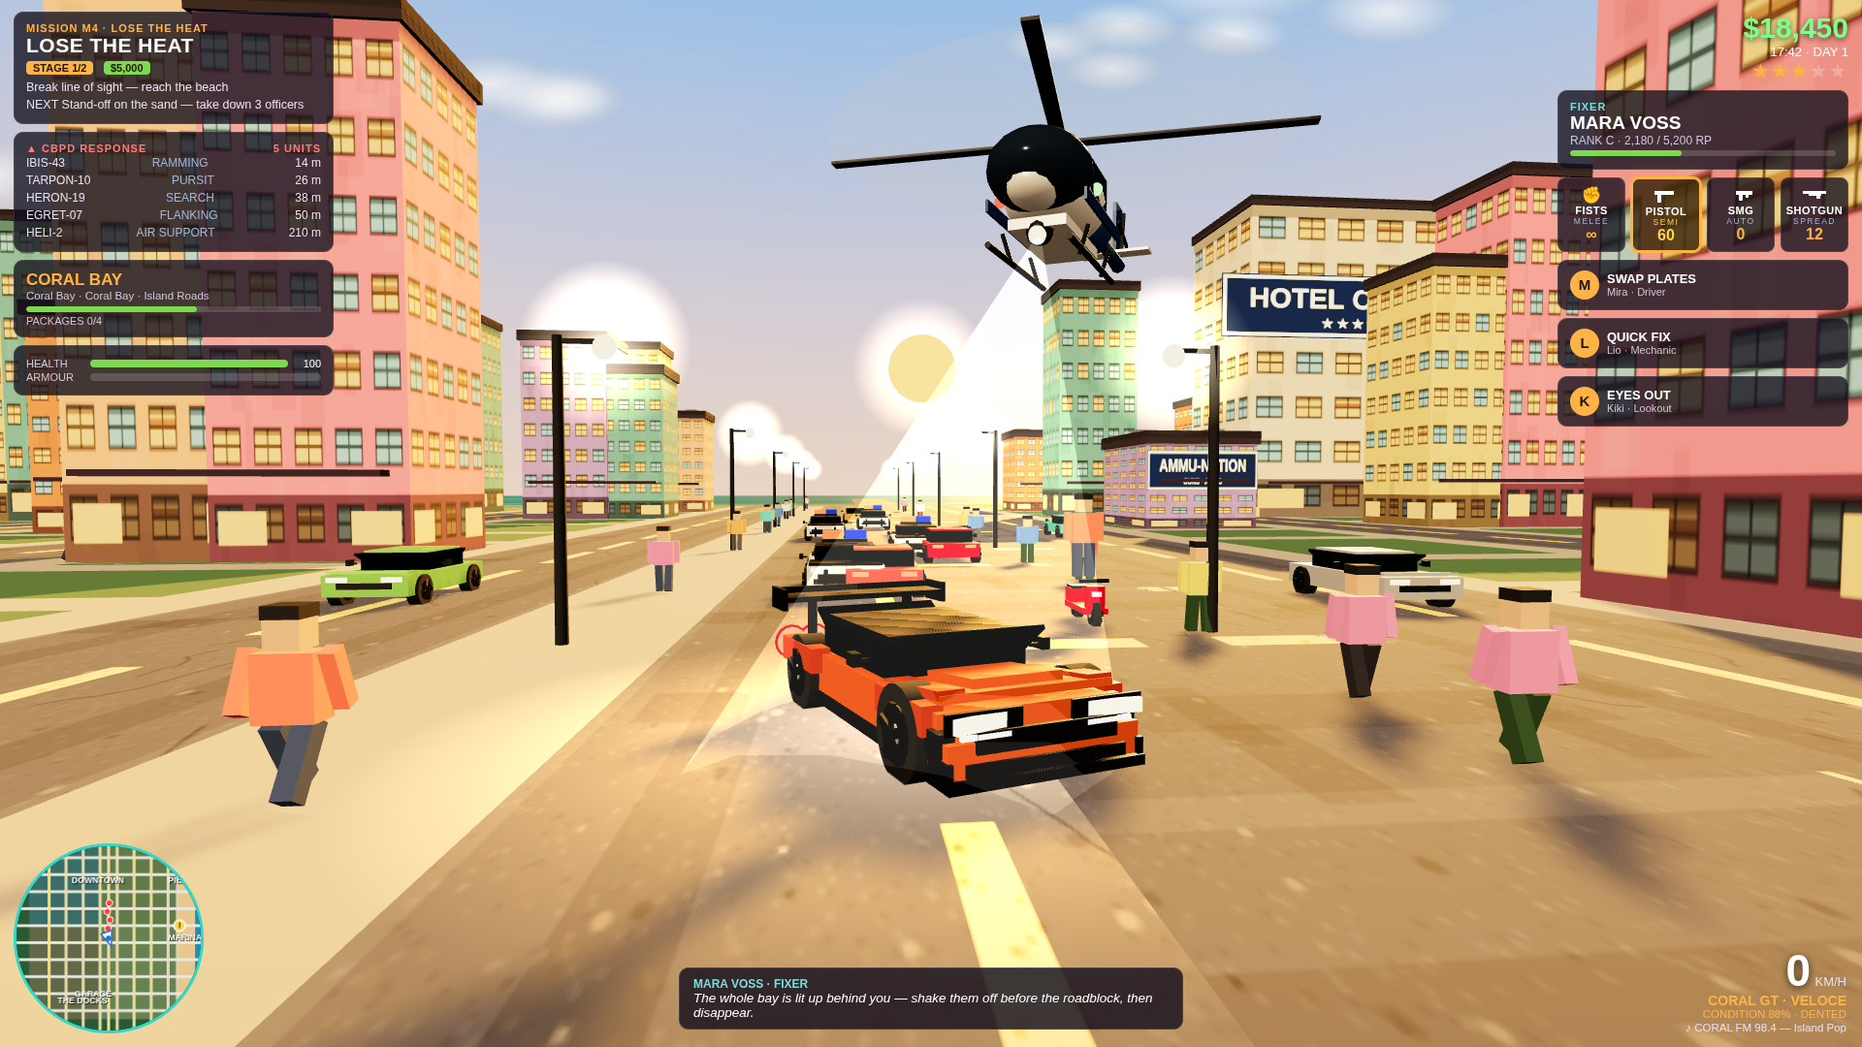
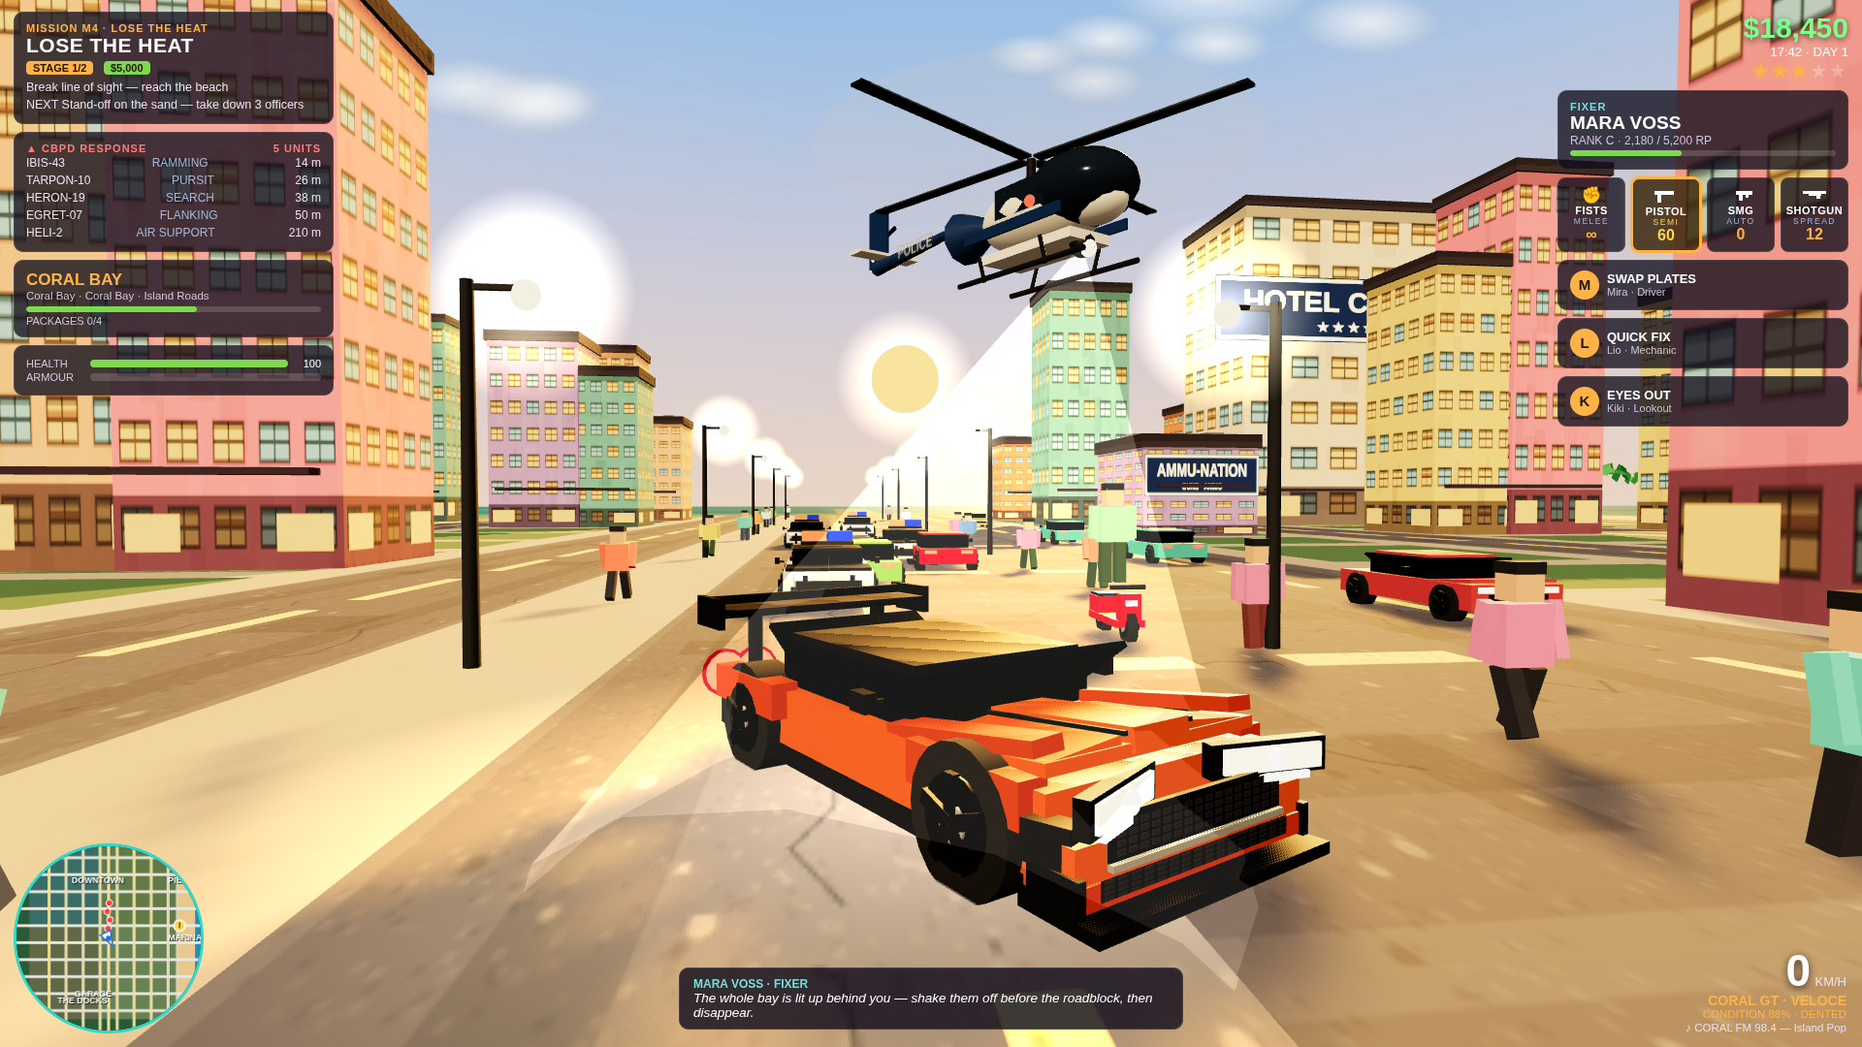
fix9: GT-R R35 nose + grille/headlights/hood, hero GT bigger in cover, title over dark road, pistol mirrored to camera side + crosshair/BIDIK, flames orange-red

diff --git a/game/src/cars.js b/game/src/cars.js
@@ -32,6 +32,33 @@ function box(w, h, d, mat, x, y, z, rx = 0, ry = 0) {
   return m;
 }
 
+// A mesh grille texture: a dark honeycomb grid on near-black, so a
+// grille reads as a real intake with depth instead of a flat black
+// slot. Drawn once, used on the GT's grille and lower intake.
+function grilleTexture() {
+  const c = document.createElement('canvas');
+  c.width = 256; c.height = 64;
+  const ctx = c.getContext('2d');
+  ctx.fillStyle = '#0a0a0e';
+  ctx.fillRect(0, 0, 256, 64);
+  ctx.fillStyle = '#23232e';
+  for (let x = 4; x < 256; x += 16) {
+    for (let y = 4; y < 64; y += 16) {
+      ctx.fillRect(x, y, 10, 10);
+    }
+  }
+  ctx.strokeStyle = '#3a3a48';
+  ctx.lineWidth = 1;
+  for (let x = 4; x < 256; x += 16) {
+    for (let y = 4; y < 64; y += 16) {
+      ctx.strokeRect(x + 0.5, y + 0.5, 10, 10);
+    }
+  }
+  const t = new THREE.CanvasTexture(c);
+  t.colorSpace = THREE.SRGBColorSpace;
+  return t;
+}
+
 // A canvas text decal: bold text on a flat plane (POLICE on a hood,
 // EMERGENCY DIAL 911 on a rear quarter). Transparent background, so
 // the paint shows through and only the letters read.
@@ -182,42 +209,80 @@ export function makeHeroCar() {
 
   // lower body: long, low, wide — the GT stance
   g.add(box(2.0, 0.5, 4.4, orange, 0, 0.55, 0));
-  // sloped hood, falling toward the nose, with a power bulge down
-  // the centre so the hood has shape instead of a flat slab.
-  // Round 8: the bulge is wider and taller, and fender bulges run
-  // down each hood edge — the flat slab hood is what made the car
-  // read as a wedge from the front. Sculpted fenders + a raised
-  // centre give the nose the GT-R's muscular shape.
+  // SCULPTED HOOD (fix9): the flat slab hood is what made the nose
+  // read as a wedge from the front-3/4. Now the hood is FACETED —
+  // a tall centre spine down the middle, two side panels angled
+  // down toward the fenders, and thin dark shut lines flanking the
+  // spine — so the hood catches the light in three planes and reads
+  // as a shaped GT-R bonnet, not one flat orange board.
   g.add(box(1.9, 0.08, 1.3, orange, 0, 0.84, 1.5, -0.1));
-  g.add(box(1.0, 0.1, 1.0, orange, 0, 0.92, 1.45, -0.1));
-  g.add(box(0.28, 0.09, 1.25, orangeDark, -0.82, 0.88, 1.5, -0.1));
-  g.add(box(0.28, 0.09, 1.25, orangeDark, 0.82, 0.88, 1.5, -0.1));
-  // nose / front bumper with a black lower splitter
+  g.add(box(0.5, 0.16, 1.35, orange, 0, 0.9, 1.5, -0.1)); // centre spine
+  const hoodL = box(0.62, 0.07, 1.25, orange, -0.62, 0.87, 1.5, -0.1);
+  hoodL.rotation.z = 0.1;
+  const hoodR = box(0.62, 0.07, 1.25, orange, 0.62, 0.87, 1.5, -0.1);
+  hoodR.rotation.z = -0.1;
+  g.add(hoodL, hoodR);
+  g.add(box(0.03, 0.03, 1.3, dark, -0.3, 0.95, 1.5, -0.1)); // shut line L
+  g.add(box(0.03, 0.03, 1.3, dark, 0.3, 0.95, 1.5, -0.1)); // shut line R
+  // fender ridges: a muscular shoulder line sloping from the
+  // windshield base down to the nose on each side — the front-3/4
+  // view catches these and the nose stops reading as a flat slab.
+  const frL = box(0.24, 0.1, 1.5, orangeDark, -0.88, 0.92, 1.35, -0.14);
+  frL.rotation.z = 0.06;
+  const frR = box(0.24, 0.1, 1.5, orangeDark, 0.88, 0.92, 1.35, -0.14);
+  frR.rotation.z = -0.06;
+  g.add(frL, frR);
+  // nose / front bumper: a sculpted fascia, not a flat box — the
+  // bumper face steps in below the grille, and the splitter juts
+  // forward under it, so the nose has depth from the front-3/4.
   g.add(box(2.05, 0.32, 0.4, orange, 0, 0.42, 2.25));
-  g.add(box(2.1, 0.1, 0.5, dark, 0, 0.22, 2.28));
+  g.add(box(2.0, 0.14, 0.3, orangeDark, 0, 0.3, 2.32)); // lower valance
+  g.add(box(2.1, 0.08, 0.62, dark, 0, 0.18, 2.34)); // splitter, jutting forward
   // splitter corner canards — small vertical fins at the bumper corners
   g.add(box(0.06, 0.22, 0.4, dark, -1.02, 0.32, 2.3));
   g.add(box(0.06, 0.22, 0.4, dark, 1.02, 0.32, 2.3));
-  // wide black grille + a lower intake, so the nose reads as a GT-R face
-  g.add(box(1.5, 0.2, 0.06, dark, 0, 0.58, 2.46));
-  g.add(box(1.7, 0.12, 0.06, dark, 0, 0.34, 2.46));
-  // angular swept headlights: wide, bright, angled back toward the
-  // fenders like the real GT-R's — not flat white rectangles. Each
-  // sits in a black bezel so the light reads as an inset lamp, not
-  // a white blob pasted on the nose.
-  g.add(box(0.78, 0.2, 0.04, dark, -0.66, 0.76, 2.44));
-  g.add(box(0.78, 0.2, 0.04, dark, 0.66, 0.76, 2.44));
-  const hlL = lamp(0.68, 0.14, 0.06, 0xfff2c0, -0.66, 0.76, 2.47);
-  hlL.rotation.y = 0.18;
-  const hlR = lamp(0.68, 0.14, 0.06, 0xfff2c0, 0.66, 0.76, 2.47);
-  hlR.rotation.y = -0.18;
-  g.add(hlL, hlR);
-  // LED daytime strips under the headlights
-  g.add(lamp(0.5, 0.05, 0.05, 0xffffff, -0.66, 0.64, 2.47));
-  g.add(lamp(0.5, 0.05, 0.05, 0xffffff, 0.66, 0.64, 2.47));
-  // black side air intakes on the front corners
-  g.add(box(0.16, 0.22, 0.3, dark, -0.98, 0.55, 2.2));
-  g.add(box(0.16, 0.22, 0.3, dark, 0.98, 0.55, 2.2));
+  // GT-R grille: a wide mesh panel with a bright lower lip, so the
+  // nose reads as a real GT-R face — a mesh intake, not a black slot.
+  const grilleTex = grilleTexture();
+  const grille = new THREE.Mesh(
+    new THREE.PlaneGeometry(1.5, 0.2),
+    new THREE.MeshStandardMaterial({ map: grilleTex, roughness: 0.6, metalness: 0.3 }),
+  );
+  grille.position.set(0, 0.58, 2.47);
+  g.add(grille);
+  g.add(box(1.56, 0.26, 0.04, dark, 0, 0.58, 2.44)); // grille surround (behind mesh)
+  g.add(box(1.56, 0.04, 0.05, std(0xcfd8dc, 0.3, 0.7), 0, 0.43, 2.47)); // bright lip
+  const intake = new THREE.Mesh(
+    new THREE.PlaneGeometry(1.7, 0.12),
+    new THREE.MeshStandardMaterial({ map: grilleTex, roughness: 0.6, metalness: 0.3 }),
+  );
+  intake.position.set(0, 0.32, 2.47);
+  g.add(intake);
+  // SWEPT headlight clusters (fix9): each lamp is a real housing —
+  // a black bezel swept back toward the fender at 0.32 rad, a bright
+  // lens inside it, a round projector dot, and an LED strip below.
+  // The sweep is what makes the face read as a GT-R from the
+  // front-3/4: flat rectangles pasted on the nose read as stickers.
+  for (const s of [-1, 1]) {
+    const bez = box(0.85, 0.22, 0.1, dark, s * 0.68, 0.78, 2.42);
+    bez.rotation.y = -s * 0.32;
+    g.add(bez);
+    const lens = lamp(0.72, 0.16, 0.06, 0xfff2c0, s * 0.68, 0.78, 2.47);
+    lens.rotation.y = -s * 0.32;
+    g.add(lens);
+    const proj = roundLamp(0.07, 0.05, 0xffffff, s * 0.68, 0.78, 2.51);
+    g.add(proj);
+    const led = lamp(0.55, 0.05, 0.05, 0xffffff, s * 0.68, 0.66, 2.47);
+    led.rotation.y = -s * 0.32;
+    g.add(led);
+  }
+  // recessed side air intakes on the front corners — angled back
+  // into the bumper so they read as scoops, not flat black patches
+  const siL = box(0.16, 0.24, 0.34, dark, -0.98, 0.55, 2.22);
+  siL.rotation.y = 0.28;
+  const siR = box(0.16, 0.24, 0.34, dark, 0.98, 0.55, 2.22);
+  siR.rotation.y = -0.28;
+  g.add(siL, siR);
   // flared front arches over the front wheels
   g.add(box(0.22, 0.28, 1.1, orangeDark, -1.0, 0.72, 1.55));
   g.add(box(0.22, 0.28, 1.1, orangeDark, 1.0, 0.72, 1.55));

diff --git a/game/index.html b/game/index.html
@@ -79,11 +79,22 @@
     background: rgba(18,14,28,0.82); border: 1px solid rgba(255,255,255,0.12); border-radius: 10px; padding: 9px 14px; }
   #dlg-name { color: #7fd9d9; font-weight: bold; font-size: 12px; }
   #dlg-text { font-size: 13.5px; color: #fff; font-style: italic; }
+  /* ---- aim: crosshair + BIDIK button (GTA mobile style) ---- */
+  /* Shown only on foot with a gun: a centre crosshair at the aim
+     point, and a big round BIDIK button on the right edge, so the
+     shootout reads as aiming — Egi: "tombol bidik nya ga ada blay". */
+  #crosshair { position: absolute; left: 50%; top: 50%; width: 46px; height: 46px; transform: translate(-50%,-50%); pointer-events: none; }
+  #crosshair .ch-h { position: absolute; left: 0; top: 50%; width: 46px; height: 3px; margin-top: -1.5px; background: #fff; box-shadow: 0 0 0 1.5px rgba(0,0,0,0.8), 0 0 8px rgba(0,0,0,0.85); }
+  #crosshair .ch-v { position: absolute; left: 50%; top: 0; width: 3px; height: 46px; margin-left: -1.5px; background: #fff; box-shadow: 0 0 0 1.5px rgba(0,0,0,0.8), 0 0 8px rgba(0,0,0,0.85); }
+  #crosshair .ch-dot { position: absolute; left: 50%; top: 50%; width: 7px; height: 7px; margin: -3.5px 0 0 -3.5px; border-radius: 50%; background: #ffb347; box-shadow: 0 0 0 1.5px rgba(0,0,0,0.85); }
+  #aim-btn { position: absolute; right: 26px; top: 50%; transform: translateY(-50%); width: 96px; text-align: center; pointer-events: none; }
+  #aim-btn .aim-ico { width: 86px; height: 86px; margin: 0 auto; border-radius: 50%; border: 3px solid #ffb347; background: rgba(18,14,28,0.55); display: flex; align-items: center; justify-content: center; box-shadow: 0 0 0 2px rgba(0,0,0,0.5), 0 0 18px rgba(255,179,71,0.35); }
+  #aim-btn .aim-label { margin-top: 6px; font-size: 15px; font-weight: bold; letter-spacing: 2px; color: #ffd34d; text-shadow: 0 1px 4px rgba(0,0,0,0.9); }
   /* ---- overlays ---- */
   .screen { position: fixed; inset: 0; display: none; z-index: 10; }
-  #title-screen { flex-direction: column; justify-content: flex-end; padding: 0 6% 12%;
+  #title-screen { flex-direction: column; justify-content: flex-end; padding: 0 6% 5%;
     background: linear-gradient(180deg, rgba(20,8,40,0.18) 0%, rgba(20,8,40,0.02) 45%, rgba(20,8,40,0.38) 100%); }
-  #title-screen h1 { font-size: 92px; line-height: 0.95; font-weight: 900; letter-spacing: 2px;
+  #title-screen h1 { font-size: 76px; line-height: 0.95; font-weight: 900; letter-spacing: 2px;
     background: linear-gradient(180deg, #fff3c4 0%, #ffb347 45%, #ff6a5e 100%);
     -webkit-background-clip: text; background-clip: text; color: transparent;
     text-shadow: 0 4px 30px rgba(255,120,60,0.35); }
@@ -196,6 +207,13 @@
   <div id="dialogue">
     <div id="dlg-name">MARA VOSS · FIXER</div>
     <div id="dlg-text">First job, kid. Take the GT, meet the fixer downtown, drop the parcel at Marina. Easy money.</div>
+  </div>
+  <div id="crosshair" style="display:none">
+    <div class="ch-h"></div><div class="ch-v"></div><div class="ch-dot"></div>
+  </div>
+  <div id="aim-btn" style="display:none">
+    <div class="aim-ico"><svg viewBox="0 0 60 60" width="46" height="46"><circle cx="30" cy="30" r="22" fill="none" stroke="#ffb347" stroke-width="5"/><circle cx="30" cy="30" r="7" fill="#ffb347"/></svg></div>
+    <div class="aim-label">BIDIK</div>
   </div>
 </div>
 

diff --git a/game/src/game.js b/game/src/game.js
@@ -217,21 +217,24 @@ export class Game {
     this.scene.add(this.tracer);
     this.tracerTimer = 0;
     // the burning Ranger: a BIG clear fire — billboarded flame
-    // sprites (a soft teardrop with a white-hot core), not solid
+    // sprites (a soft teardrop with a warm orange core), not solid
     // cones: a cone reads as an orange triangle, a sprite reads as
-    // flame. Three rings (a tall yellow core, an orange middle, a
-    // red outer ring) licking up from the engine and the cabin,
-    // plus soft grey smoke puffs rising above — round and
+    // flame. Three rings (a tall orange core, a red-orange middle,
+    // a deep red outer ring) licking up from the engine and the
+    // cabin, plus soft grey smoke puffs rising above — round and
     // translucent, never solid black pyramids. A wide warm glow on
     // the sand and an orange point light so the fire lights the
     // Ranger, the ground and the officers nearby. The fire is a
-    // named requirement: it must be GOOD and CLEAR.
+    // named requirement: it must be GOOD and CLEAR. Fix9: the
+    // flames are SMALLER and deeper orange-red, not white-hot —
+    // in fix8 the white-hot core + glow + beam pool + sun halo
+    // stacked into one white blown-out blob in the centre.
     this.flames = new THREE.Group();
     const flameTex = flameTexture();
     const flameSets = [
-      { n: 5, w: 1.5, h: 3.4, x: 0.55, z: 0.7, tint: 0xffb81a },
-      { n: 6, w: 1.8, h: 2.8, x: 0.85, z: 1.1, tint: 0xff7a1a },
-      { n: 5, w: 2.1, h: 2.3, x: 1.1, z: 1.4, tint: 0xe83a10 },
+      { n: 4, w: 1.3, h: 2.6, x: 0.55, z: 0.7, tint: 0xff8c1a },
+      { n: 5, w: 1.5, h: 2.2, x: 0.85, z: 1.1, tint: 0xff5a10 },
+      { n: 4, w: 1.7, h: 1.9, x: 1.1, z: 1.4, tint: 0xd42a08 },
     ];
     for (const set of flameSets) {
       for (let i = 0; i < set.n; i++) {
@@ -269,18 +272,19 @@ export class Game {
     const fireGlow = new THREE.Mesh(
       new THREE.PlaneGeometry(9, 9),
       new THREE.MeshBasicMaterial({
-        map: glowTexture('rgba(255,200,90,0.95)', 'rgba(255,110,20,0.4)'),
-        transparent: true, opacity: 0.5, blending: THREE.AdditiveBlending, depthWrite: false,
+        map: glowTexture('rgba(255,140,40,0.85)', 'rgba(255,60,10,0.35)'),
+        transparent: true, opacity: 0.3, blending: THREE.AdditiveBlending, depthWrite: false,
       }),
     );
     fireGlow.rotation.x = -Math.PI / 2;
     fireGlow.position.y = 0.4;
     this.flames.add(fireGlow);
     // an orange light that flickers with the fire and lights the Ranger.
-    // Intensity 45, not 80: at 80 the fire's light + glow + the beam
+    // Intensity 28, not 45: at 45 the fire's light + glow + the beam
     // pool + the bright sand stacked into a white washout in the
     // shootout — the fire should light the scene, not erase it.
-    const fireLight = new THREE.PointLight(0xff7a1a, 45, 22, 1.5);
+    // Fix9: 28, and a deeper orange-red so the light is warm, not white.
+    const fireLight = new THREE.PointLight(0xff5a10, 28, 22, 1.5);
     fireLight.position.set(0, 2.2, 0.4);
     this.flames.add(fireLight);
     this.flames.userData.fireLight = fireLight;

diff --git a/game/src/shots.js b/game/src/shots.js
@@ -24,11 +24,13 @@ import * as THREE from 'three';
 const DUSK = '17:42';
 
 // The four lenses, solved once: each entry is [eye, look-at].
-// Cover: the lens sits on the hero's own axis, 10 m off the car —
-// close enough that the GT fills the frame, far enough that the
-// whole car stays in shot (at 6 m the bumper cropped out). The line
-// from the lens through the hero's centre runs on to the look point,
-// which is what keeps the car dead centre instead of drifting right.
+// Cover: the lens sits on the hero's own axis, 7 m off the car —
+// fix9 moves it in from 10 m so the GT fills the frame, and drops
+// it to 2.4 m so the sculpted nose reads front-on instead of from
+// above. At 6 m the bumper cropped out; at 7 m the whole car stays
+// in shot and reads ~40% wider than fix8's. The line from the lens
+// through the hero's centre runs on to the look point, which is
+// what keeps the car dead centre instead of drifting right.
 // Shootout: an over-the-shoulder foot cam, pulled close and low so
 // the player fills a third of the frame and the heli has clean sky
 // above him; the look point is raised so the heli's body sits in
@@ -38,7 +40,7 @@ const DUSK = '17:42';
 // once, the signs sit well inside the frame, and no palm trunk
 // crosses the hero.
 const LENSES = {
-  cover: [{ x: 11, y: 2.8, z: 28 }, { x: 13, y: 2.0, z: 8 }],
+  cover: [{ x: 11, y: 2.4, z: 25 }, { x: 12.8, y: 2.0, z: 10 }],
   shootout: [{ x: 117, y: 2.8, z: 10.5 }, { x: 114, y: 2.2, z: -8 }],
   title: [{ x: 96, y: 8, z: 55 }, { x: 86, y: 5, z: -10 }],
 };
@@ -57,17 +59,18 @@ function frameShot(game, lens, showHud, showTitle, showMap) {
 
 function stageCover(game) {
   // M4, the chase, step 0. The hero GT faces south, toward the
-  // camera, angled 0.35 rad (20°) east: straight-on, a car shows
-  // only its 2.18 m front; angled, it shows front + flank (3.76 m
-  // of projected width), so it reads ~70% wider and fills the frame
-  // the way Karimbu's hero does.
+  // camera, angled 0.5 rad (29°) east: straight-on, a car shows
+  // only its 2.18 m front; angled, it shows front + flank (3.87 m
+  // of projected width), so it reads wider and fills the frame the
+  // way Karimbu's hero does. Fix9 raises the angle from 0.35 so the
+  // sculpted nose + the flank both show and the car reads bigger.
   game.startPlay();
   game.setMission(3);
   game.setStep(0);
   game.setCash(18450);
   game.setClock(DUSK);
   game.setWanted(3);
-  game.teleportCar(12, 18, 0.35);
+  game.teleportCar(12, 18, 0.5);
   game.placeCoverTraffic();
   frameShot(game, 'cover', true, false, false);
   game.hud.setDialogue('MARA VOSS · FIXER', 'The whole bay is lit up behind you — shake them off before the roadblock, then disappear.');

diff --git a/game/src/people.js b/game/src/people.js
@@ -101,11 +101,13 @@ export function stepWalk(person, dt, moving) {
 // almost black in a scene with no environment map, which is why the
 // old gun vanished against the sand. Round 8: the silver is hotter
 // (emissive 1.4) and the gun is scaled up at the player/officer, so
-// it reads even in a bright frame.
+// it reads even in a bright frame. Round 9: the silver is hotter
+// still (emissive 2.0) and the player's gun is BIGGER (3.4x) — and
+// it rides on the CAMERA side, so the shootout lens sees it.
 function pistol() {
   const g = new THREE.Group();
   const dark = new THREE.MeshStandardMaterial({ color: 0x1c1c22, roughness: 0.5, metalness: 0.4 });
-  const silver = new THREE.MeshStandardMaterial({ color: 0xe8ecf0, roughness: 0.25, metalness: 0.25, emissive: 0x55555c, emissiveIntensity: 1.4 });
+  const silver = new THREE.MeshStandardMaterial({ color: 0xe8ecf0, roughness: 0.25, metalness: 0.25, emissive: 0x77777a, emissiveIntensity: 2.0 });
   const grip = new THREE.Mesh(new THREE.BoxGeometry(0.11, 0.26, 0.14), dark);
   grip.position.set(0, 0, 0);
   grip.castShadow = true;
@@ -128,17 +130,19 @@ function pistol() {
 // even from behind her, where the shootout camera sits.
 export function makePlayer() {
   const g = makeWalker({ float: () => 0 }, 0xd21f1f, 0x1c1c22);
-  // the gun rides at her right hand, forward and high, bright metal
-  // — BIG (3.0x) so it reads at a glance from the shootout camera,
-  // pushed well out past her right shoulder (x 0.55) and angled
-  // hard across her body (rotation -0.55) so the long silver slide
-  // shows its SIDE to the behind-camera — a forward-pointing gun
-  // seen end-on is a speck, and in fix8 it hid behind her torso.
-  // The angled slide is what makes the weapon read as a pistol.
+  // the gun rides at her hand, forward and high, bright metal —
+  // BIG (3.4x) so it reads at a glance from the shootout camera,
+  // and on the CAMERA side (local x -0.72, not +0.55): fix8 put it
+  // on the far side, where the player's own torso hid it from the
+  // shootout lens — the line from the lens to the gun passed
+  // straight through her chest. Mirrored to the east side it clears
+  // the torso and the long silver slide shows its SIDE to the
+  // behind-camera, angled across her body (rotation +0.55) so the
+  // slide reads as a pistol, not a speck.
   const gun = pistol();
-  gun.scale.setScalar(3.0);
-  gun.position.set(0.55, 1.22, 0.6);
-  gun.rotation.y = -0.55;
+  gun.scale.setScalar(3.4);
+  gun.position.set(-0.72, 1.28, 0.7);
+  gun.rotation.y = 0.55;
   g.add(gun);
   // a lighter red chest panel so the jacket reads as a jacket, not a slab
   const chest = limb(0.4, 0.4, 0.04, 0xe83a3a, 0, 1.12, 0.16);

diff --git a/game/src/materials.js b/game/src/materials.js
@@ -297,19 +297,21 @@ export function skyTexture() {
   return canvasTexture(c);
 }
 
-// A flame sprite: a teardrop flame with a white-hot core, a yellow
-// body and a soft orange-red edge — drawn once, then billboarded as
+// A flame sprite: a teardrop flame with a warm orange core, a deep
+// orange body and a soft red edge — drawn once, then billboarded as
 // a sprite so it reads as real fire from any angle. A solid cone
 // reads as an orange triangle; a soft teardrop sprite reads as flame.
+// Fix9: the core is ORANGE, not white-hot — a white-hot core plus
+// additive blending blew the shootout's centre out to pure white.
 export function flameTexture() {
   const c = makeCanvas(128, 128);
   const g = c.getContext('2d');
   g.clearRect(0, 0, 128, 128);
-  // outer flame: a tall teardrop, orange-red, soft edge
+  // outer flame: a tall teardrop, deep orange, soft edge
   const grad = g.createRadialGradient(64, 78, 4, 64, 72, 58);
-  grad.addColorStop(0, 'rgba(255,244,180,1)');
-  grad.addColorStop(0.35, 'rgba(255,210,60,0.95)');
-  grad.addColorStop(0.65, 'rgba(255,110,20,0.75)');
+  grad.addColorStop(0, 'rgba(255,180,60,1)');
+  grad.addColorStop(0.35, 'rgba(255,140,30,0.95)');
+  grad.addColorStop(0.65, 'rgba(255,80,10,0.75)');
   grad.addColorStop(1, 'rgba(220,40,10,0)');
   g.fillStyle = grad;
   g.beginPath();
@@ -318,11 +320,12 @@ export function flameTexture() {
   g.bezierCurveTo(82, 120, 46, 120, 36, 102);
   g.bezierCurveTo(24, 78, 32, 44, 64, 6);
   g.fill();
-  // hot core: a smaller, brighter teardrop low in the flame
+  // hot core: a smaller, warmer teardrop low in the flame — orange,
+  // never white, so the flame reads as fire and not as a light bulb
   const core = g.createRadialGradient(64, 92, 2, 64, 88, 34);
-  core.addColorStop(0, 'rgba(255,255,240,1)');
-  core.addColorStop(0.5, 'rgba(255,225,120,0.9)');
-  core.addColorStop(1, 'rgba(255,160,40,0)');
+  core.addColorStop(0, 'rgba(255,200,90,1)');
+  core.addColorStop(0.5, 'rgba(255,150,50,0.9)');
+  core.addColorStop(1, 'rgba(255,90,20,0)');
   g.fillStyle = core;
   g.beginPath();
   g.moveTo(64, 52);

diff --git a/game/src/hud.js b/game/src/hud.js
@@ -94,6 +94,13 @@ export class HUD {
         if (slot.innerHTML !== html) slot.innerHTML = html;
       }
     }
+    // crosshair + BIDIK button: on foot with a gun, the player is
+    // aiming — a centre crosshair and a big round BIDIK button (GTA
+    // mobile style). Hidden in the car, on the boat, and with fists,
+    // so the driving shots stay clean.
+    const aiming = s.vehicle === 'foot' && s.weapons[s.weaponIndex] && s.weapons[s.weaponIndex].name !== 'FISTS';
+    this.show('crosshair', aiming);
+    this.show('aim-btn', aiming);
     // speed + car + radio
     this.setText('speed', `${Math.round(Math.abs(s.speed) * 3.6)}`);
     this.setText('car-name', s.vehicle === 'boat' ? 'RED TIDE · BOAT' : s.vehicle === 'foot' ? 'ON FOOT' : 'CORAL GT · VELOCE');
